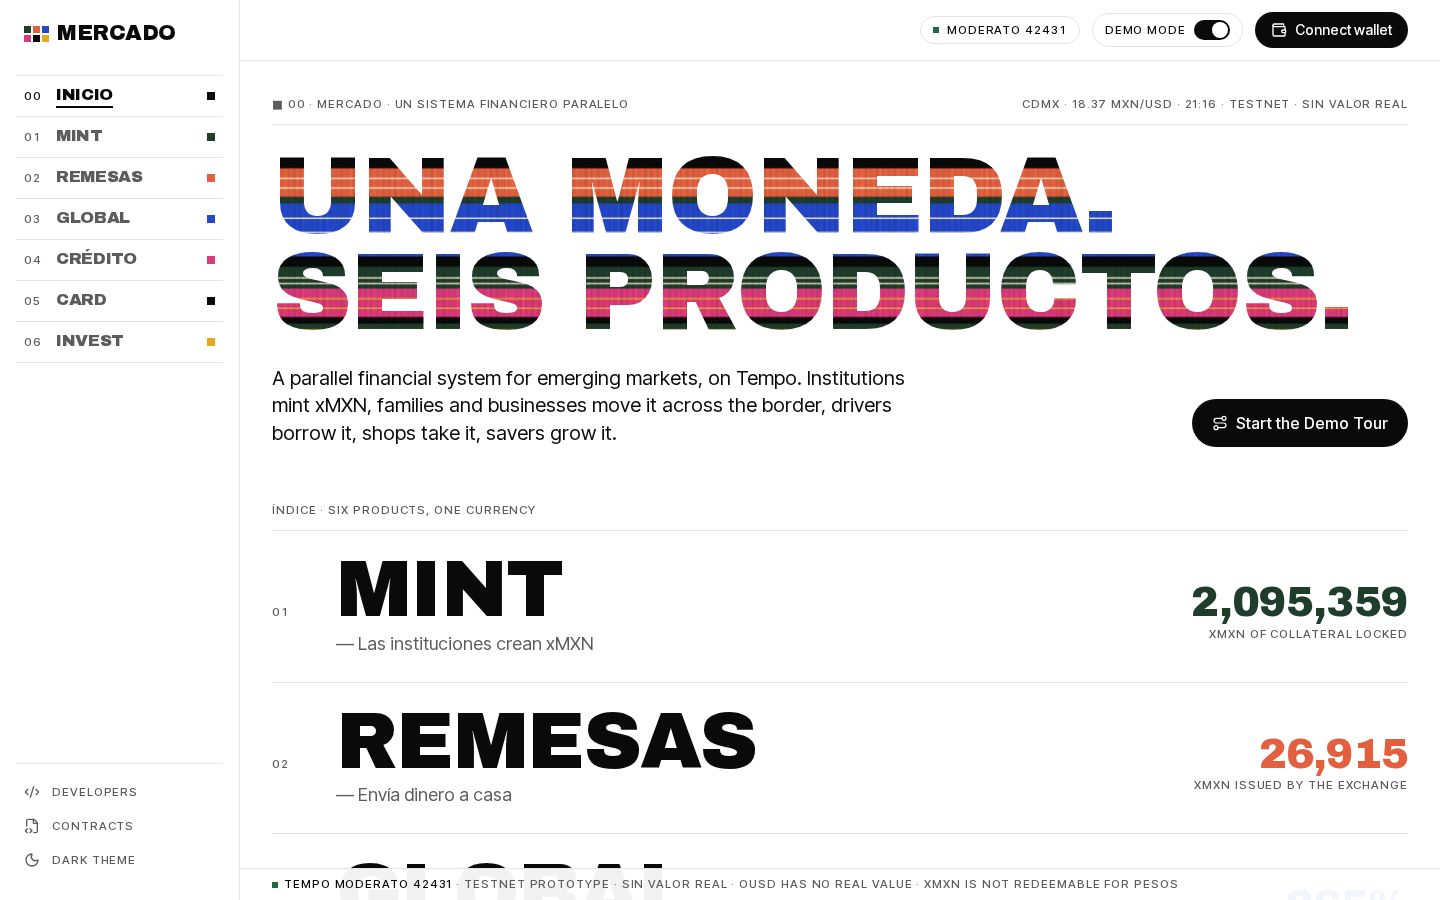
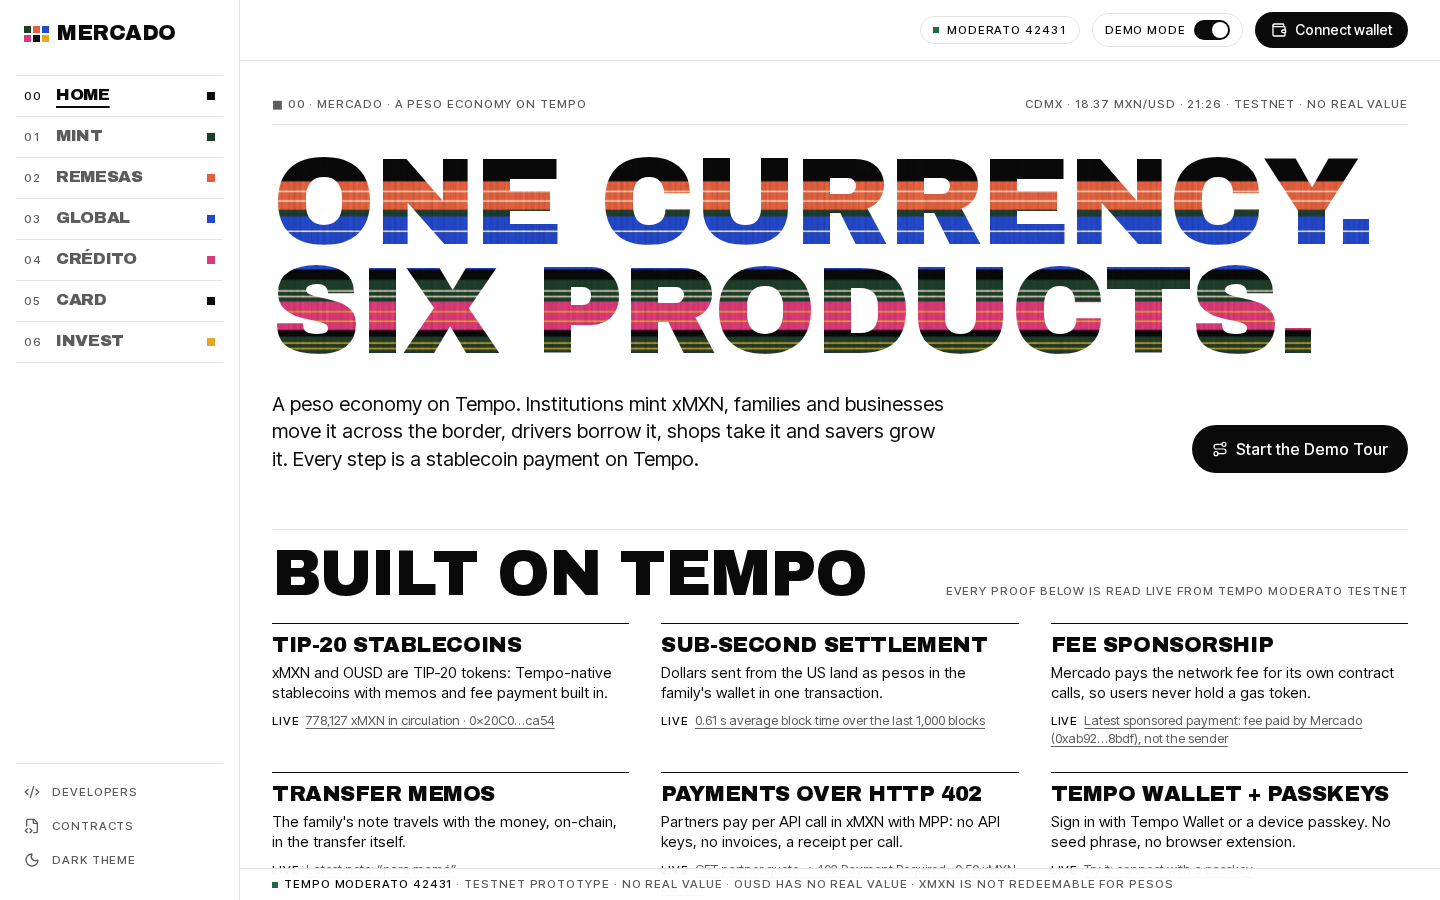
slides: re-recorded spending-proof video (Javier everywhere) on Card; English home on slide 02

diff --git a/deck/project/slides/p-card.html b/deck/project/slides/p-card.html
@@ -8,10 +8,10 @@
 <p style="position:absolute;left:128px;top:506px;width:960px;font-size:32px;font-weight:500;line-height:1.3;color:#FFFFFF">Anyone holding xMXN who wants to pay at a counter: the family in Mexico, a driver, a merchant's customers.</p>
 <div data-build-in="rise 3" style="position:absolute;left:128px;top:600px;width:440px;display:flex;flex-direction:column;gap:8px;"><p style="font-family:'Anton', 'Arial Narrow', sans-serif;font-size:120px;font-weight:400;line-height:0.95;letter-spacing:-1px;text-transform:uppercase;color:#F2E6C9">150</p><p style="font-family:'Inter Tight', Arial, sans-serif;font-size:24px;line-height:1.4;color:#999999">xMXN paid by tap at a demo shop, after a frozen-card decline</p><p style="font-family:'Inter Tight', Arial, sans-serif;font-size:24px;color:#FFFFFF"><a href="https://explore.testnet.tempo.xyz/tx/0x5f97a04d6a6c52f95120c960de67de476f9012bf067f004cf4c1603946887ba5">charge tx ↗</a></p></div>
 <div data-build-in="rise 4" style="position:absolute;left:608px;top:600px;width:440px;display:flex;flex-direction:column;gap:8px;padding:0 0 0 32px;border-left:1px solid rgba(255,255,255,0.12);"><p style="font-family:'Anton', 'Arial Narrow', sans-serif;font-size:120px;font-weight:400;line-height:0.95;letter-spacing:-1px;text-transform:uppercase;color:#F2E6C9">375</p><p style="font-family:'Inter Tight', Arial, sans-serif;font-size:24px;line-height:1.4;color:#999999">xMXN advance drawn first; Javier owes 382.50</p><p style="font-family:'Inter Tight', Arial, sans-serif;font-size:24px;color:#FFFFFF"><a href="https://explore.testnet.tempo.xyz/tx/0x083a2de4b0ac30b74e5e5590dc59afd451b73a612275033ea022461b3711357c">draw tx ↗</a></p></div>
-<img data-build-in="fade 5" src="/_blob/799674cfbef971fedc672f47cf441da5" data-video="/_blob/c2b786f07d7db37eec8d5d165eae8875" alt="44-second screen recording: Javier draws a 375 xMXN advance, his frozen Mercado Card is declined at a demo shop, he unfreezes it and a 150 xMXN tap payment goes through once, with receipts" style="position:absolute;left:1152px;top:470px;width:640px;height:404px;object-fit:contain;background:#161616;border:1px solid rgba(255,255,255,0.12)">
+<img data-build-in="fade 5" src="/_blob/799674cfbef971fedc672f47cf441da5" data-video="/_blob/1445b77534f54d65c820a9c07a1da6a0" alt="40-second screen recording: Javier draws a 375 xMXN advance, his frozen Mercado Card is declined at a demo shop, he unfreezes it and a 150 xMXN tap payment goes through once, with receipts" style="position:absolute;left:1152px;top:470px;width:640px;height:404px;object-fit:contain;background:#161616;border:1px solid rgba(255,255,255,0.12)">
 <div style="position:absolute;left:128px;top:900px;width:12px;height:12px;border-radius:50%;background:#00FF00;box-shadow:0 0 10px #00FF00"></div>
 <p style="position:absolute;left:152px;top:886px;width:1640px;font-family:'Inter Tight', Arial, sans-serif;font-size:24px;color:#999999">live on v2 testnet · demo card network and number, not Visa or Mastercard</p>
 <p style="position:absolute;left:128px;bottom:64px;width:1200px;font-family:'Inter Tight', Arial, sans-serif;font-size:24px;color:#8A8A8A;text-transform:uppercase;letter-spacing:3px;font-weight:600">Mercado · testnet · no real value · Tempo Moderato</p>
 <p style="position:absolute;right:128px;bottom:64px;width:120px;font-family:'Inter Tight', Arial, sans-serif;font-size:24px;text-align:right;color:#8A8A8A;text-transform:uppercase;letter-spacing:3px;font-weight:600">09</p>
-<aside>~8s. Mercado Card is the fifth product: spend xMXN at a shop. The design: a holder issues a virtual card with an on-chain daily limit that resets at midnight CDMX and can freeze it; an allowlisted demo merchant terminal charges it, the holder approves with a tap signature, xMXN moves on-chain from holder to merchant, and refunds are real too. Only the card network and the card number are simulated: it's a demo virtual card, not Visa or Mastercard, and it works only at Mercado demo merchants, with no physical card and no ATM. The video (44 seconds, all real Tempo transactions) is one person, one peso: Javier connects his demo Uber data, draws a 375 xMXN advance (owing 382.50 with the 2% fee), freezes his Mercado Card, gets declined at 'Tienda Doña Mary' with nothing charged, unfreezes, and the retry pays 150 xMXN exactly once, with receipts on the shop terminal and the phone. Earlier, a 25 xMXN charge was also refunded on-chain; the app's activity list reads the CardCharged and CardRefunded events. The holder's tap signature is mandatory, so an approved merchant alone can't pull funds; the daily limit resets at midnight CDMX. The adversarial review of the charge authorization is still running, so don't call it audited.</aside>
+<aside>~8s. Mercado Card is the fifth product: spend xMXN at a shop. The design: a holder issues a virtual card with an on-chain daily limit that resets at midnight CDMX and can freeze it; an allowlisted demo merchant terminal charges it, the holder approves with a tap signature, xMXN moves on-chain from holder to merchant, and refunds are real too. Only the card network and the card number are simulated: it's a demo virtual card, not Visa or Mastercard, and it works only at Mercado demo merchants, with no physical card and no ATM. The video (about 40 seconds, all real Tempo transactions) is one person, one peso: Javier connects his demo Uber data, draws a 375 xMXN advance (owing 382.50 with the 2% fee), freezes his Mercado Card, gets declined at 'Tienda Doña Mary' with nothing charged, unfreezes, and the retry pays 150 xMXN exactly once, with receipts on the shop terminal and the phone. Earlier, a 25 xMXN charge was also refunded on-chain; the app's activity list reads the CardCharged and CardRefunded events. The holder's tap signature is mandatory, so an approved merchant alone can't pull funds; the daily limit resets at midnight CDMX. The adversarial review of the charge authorization is still running, so don't call it audited.</aside>
 </section>

diff --git a/deck/project/slides/system.html b/deck/project/slides/system.html
@@ -9,7 +9,7 @@
 <div data-build-in="rise 6" style="position:absolute;left:128px;top:728px;width:1000px;height:94px;display:flex;align-items:center;gap:40px;border-top:1px solid rgba(255,255,255,0.14)"><p style="width:60px;font-family:'Inter Tight', Arial, sans-serif;font-size:24px;color:#B3B3B3;text-transform:uppercase;letter-spacing:3px;font-weight:600">05</p><p style="width:380px;font-family:'Anton', 'Arial Narrow', sans-serif;font-size:80px;font-weight:400;line-height:1;letter-spacing:-1px;text-transform:uppercase;color:#F2E6C9">Card</p><p style="flex:1;font-size:28px;font-weight:500;color:#FFFFFF">Spend anywhere it's accepted</p></div>
 <div data-build-in="rise 7" style="position:absolute;left:128px;top:822px;width:1000px;height:94px;display:flex;align-items:center;gap:40px;border-top:1px solid rgba(255,255,255,0.14)"><p style="width:60px;font-family:'Inter Tight', Arial, sans-serif;font-size:24px;color:#B3B3B3;text-transform:uppercase;letter-spacing:3px;font-weight:600">06</p><p style="width:380px;font-family:'Anton', 'Arial Narrow', sans-serif;font-size:80px;font-weight:400;line-height:1;letter-spacing:-1px;text-transform:uppercase;color:#E5A823">Invest</p><p style="flex:1;font-size:28px;font-weight:500;color:#FFFFFF">Save in pesos, dollars, T-bills</p></div>
 <div style="position:absolute;left:128px;top:916px;width:1000px;height:1px;background:rgba(255,255,255,0.14)"></div>
-<img data-build-in="fade 8" src="/_blob/8a45e5433a6f8ffb64e7a223a4f6a785" alt="Mercado home page in English-ready editorial style: one currency, six products, with the live product index" style="position:absolute;left:1172px;top:352px;width:620px;height:388px;object-fit:cover;object-position:top;border:1px solid rgba(255,255,255,0.14)">
+<img data-build-in="fade 8" src="/_blob/c61f47038627c7d534c91e553ba1cde7" alt="Mercado home page: one currency, six products, a peso economy on Tempo, with the Built on Tempo proofs" style="position:absolute;left:1172px;top:352px;width:620px;height:388px;object-fit:cover;object-position:top;border:1px solid rgba(255,255,255,0.14)">
 <p style="position:absolute;left:128px;bottom:64px;width:1200px;font-family:'Inter Tight', Arial, sans-serif;font-size:24px;color:#8A8A8A;text-transform:uppercase;letter-spacing:3px;font-weight:600">Mercado · testnet · no real value · Tempo Moderato</p>
 <p style="position:absolute;right:128px;bottom:64px;width:120px;font-family:'Inter Tight', Arial, sans-serif;font-size:24px;text-align:right;color:#8A8A8A;text-transform:uppercase;letter-spacing:3px;font-weight:600">02</p>
 <aside>~12s. One currency, six products. Everything runs on xMXN, a synthetic peso on Tempo: a peso economy built from Tempo primitives. The screenshot is the live home page. 01 Mint: institutions create xMXN against collateral. 02 Remesas: send money home. 03 Global: pay suppliers across the border. 04 Crédito: advances for gig workers, funded by lenders. 05 Card: spend xMXN at a shop. 06 Invest: save in pesos, dollars or demo T-bills. How money moves between them is on the 'why it compounds' slide. Testnet prototype: OUSD has no real value, demo tokens have admin-set yield and prices, xMXN has no peg or fiat redemption.</aside>

diff --git a/deck/art/product_slides.py b/deck/art/product_slides.py
@@ -38,7 +38,7 @@ P = [
[1 lines of base64/hex data omitted]
   video=("hero-spend-final.mp4", "hero-spend-final-paid.png"),
   status=("#00FF00", "live on v2 testnet · demo card network and number, not Visa or Mastercard"),
-  notes="~8s. Mercado Card is the fifth product: spend xMXN at a shop. The design: a holder issues a virtual card with an on-chain daily limit that resets at midnight CDMX and can freeze it; an allowlisted demo merchant terminal charges it, the holder approves with a tap signature, xMXN moves on-chain from holder to merchant, and refunds are real too. Only the card network and the card number are simulated: it's a demo virtual card, not Visa or Mastercard, and it works only at Mercado demo merchants, with no physical card and no ATM. The video (44 seconds, all real Tempo transactions) is one person, one peso: Javier connects his demo Uber data, draws a 375 xMXN advance (owing 382.50 with the 2% fee), freezes his Mercado Card, gets declined at 'Tienda Doña Mary' with nothing charged, unfreezes, and the retry pays 150 xMXN exactly once, with receipts on the shop terminal and the phone. Earlier, a 25 xMXN charge was also refunded on-chain; the app's activity list reads the CardCharged and CardRefunded events. The holder's tap signature is mandatory, so an approved merchant alone can't pull funds; the daily limit resets at midnight CDMX. The adversarial review of the charge authorization is still running, so don't call it audited."),
+  notes="~8s. Mercado Card is the fifth product: spend xMXN at a shop. The design: a holder issues a virtual card with an on-chain daily limit that resets at midnight CDMX and can freeze it; an allowlisted demo merchant terminal charges it, the holder approves with a tap signature, xMXN moves on-chain from holder to merchant, and refunds are real too. Only the card network and the card number are simulated: it's a demo virtual card, not Visa or Mastercard, and it works only at Mercado demo merchants, with no physical card and no ATM. The video (about 40 seconds, all real Tempo transactions) is one person, one peso: Javier connects his demo Uber data, draws a 375 xMXN advance (owing 382.50 with the 2% fee), freezes his Mercado Card, gets declined at 'Tienda Doña Mary' with nothing charged, unfreezes, and the retry pays 150 xMXN exactly once, with receipts on the shop terminal and the phone. Earlier, a 25 xMXN charge was also refunded on-chain; the app's activity list reads the CardCharged and CardRefunded events. The holder's tap signature is mandatory, so an approved merchant alone can't pull funds; the daily limit resets at midnight CDMX. The adversarial review of the charge authorization is still running, so don't call it audited."),
  dict(id="p-invest", num="10", name="Mercado Invest", tint="#F2B807", base="#F2B807", art="product-invest-v4.webp",
   purpose="Save in pesos, dollars or T-bills.", who="Savers in Mexico, and institutions holding xMXN or dollars that should be working.",
[1 lines of base64/hex data omitted]
@@ -55,7 +55,7 @@ def slide(p):
     alt = (p["name"] + " in the Mercado app: product header, live KPIs and the first tab") if shot else ""
     vid = p.get("video")
     if vid and vid[0] in assets and vid[1] in assets:
-        art, alt = assets[vid[1]], "44-second screen recording: Javier draws a 375 xMXN advance, his frozen Mercado Card is declined at a demo shop, he unfreezes it and a 150 xMXN tap payment goes through once, with receipts"
+        art, alt = assets[vid[1]], "40-second screen recording: Javier draws a 375 xMXN advance, his frozen Mercado Card is declined at a demo shop, he unfreezes it and a 150 xMXN tap payment goes through once, with receipts"
         vattr = f' data-video="{assets[vid[0]]}"'
     else:
         vattr = ""
